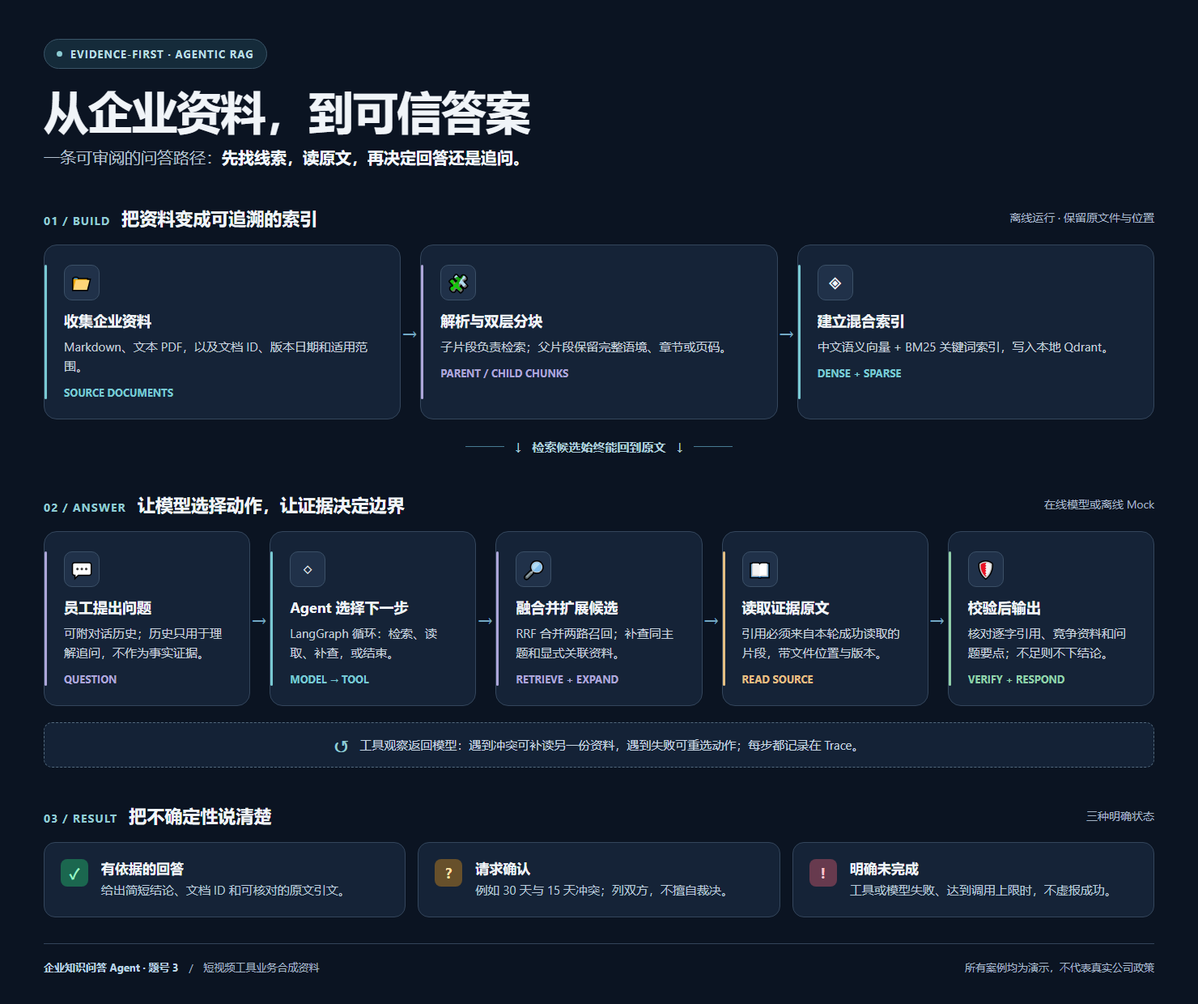
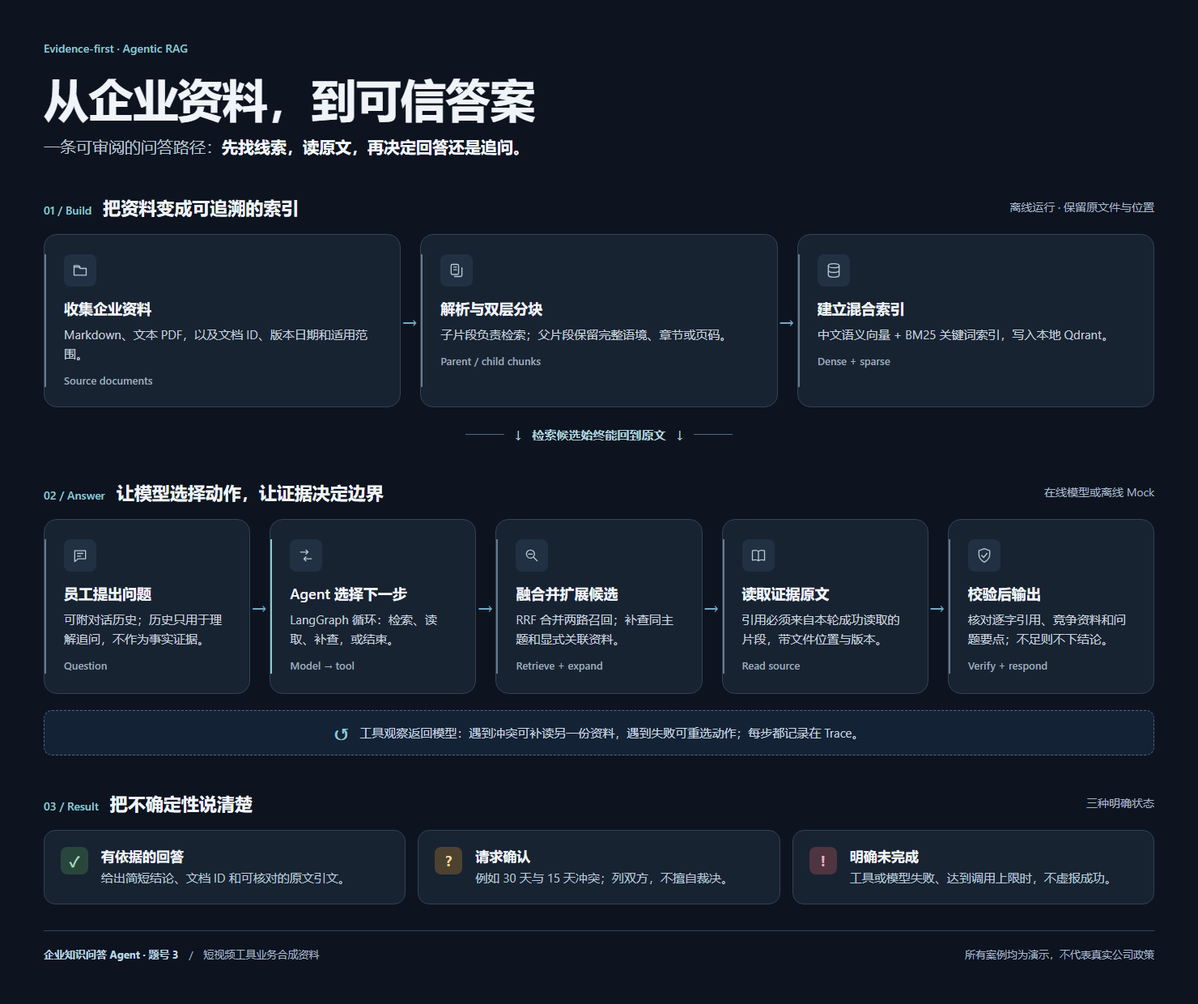
Polish architecture diagram and expand README

diff --git a/docs/architecture.html b/docs/architecture.html
@@ -6,43 +6,43 @@
   <meta name="color-scheme" content="dark">
   <title>有证据的企业知识问答 Agent · 工作流程</title>
   <style>
-    :root { color-scheme: dark; --bg:#0b1422; --panel:#152337; --line:#34465c; --text:#f0f4f8; --muted:#b3c0ce; --cyan:#79c9d3; --violet:#ada6d9; --amber:#e4bf83; --green:#91d0aa; --red:#da9ca5; }
+    :root { color-scheme: dark; --bg:#0d1420; --panel:#182332; --line:#344154; --text:#f0f4f8; --muted:#b8c3cf; --accent:#8fc8d2; }
     * { box-sizing:border-box; }
     body { margin:0; min-height:100vh; color:var(--text); font-family:Inter,"Segoe UI","Microsoft YaHei",system-ui,sans-serif; background:var(--bg); }
     main { max-width:1480px; margin:auto; padding:48px 54px 42px; }
-    .eyebrow { display:inline-flex; align-items:center; gap:10px; border:1px solid #3b5568; border-radius:100px; padding:9px 15px; color:#b9dce2; background:#152b3a; font-size:13px; font-weight:650; letter-spacing:.08em; }
-    .spark { width:7px; height:7px; border-radius:50%; background:#8bcbd2; }
-    h1 { margin:19px 0 10px; font-size:clamp(40px,3.8vw,58px); line-height:1.13; letter-spacing:-.03em; }
+    .eyebrow { display:inline-flex; align-items:center; gap:10px; color:var(--accent); font-size:14px; font-weight:500; }
+    h1 { margin:20px 0 12px; font-size:clamp(40px,3.8vw,58px); line-height:1.13; letter-spacing:-.02em; font-weight:600; }
     .lead { margin:0; color:var(--muted); font-size:20px; line-height:1.6; }
-    .lead strong { color:#f3f8ff; font-weight:700; }
+    .lead strong { color:#f3f8ff; font-weight:600; }
     .section-head { display:flex; align-items:center; justify-content:space-between; gap:16px; margin:44px 0 18px; }
-    .section-head h2 { margin:0; font-size:22px; letter-spacing:0; }
-    .section-head h2 span { color:#91cbd3; font-size:14px; letter-spacing:.08em; margin-right:14px; }
+    .section-head h2 { margin:0; font-size:22px; letter-spacing:0; font-weight:600; }
+    .section-head h2 span { color:var(--accent); font-size:14px; letter-spacing:0; margin-right:14px; font-weight:500; }
     .section-head p { margin:0; color:#a5b5c7; font-size:14px; }
     .flow { display:grid; gap:24px; align-items:stretch; }
     .build { grid-template-columns:repeat(3,minmax(0,1fr)); }
     .ask { grid-template-columns:repeat(5,minmax(0,1fr)); }
     .card { position:relative; min-height:174px; padding:24px; border:1px solid var(--line); border-radius:16px; background:var(--panel); overflow:visible; }
-    .card::before { content:""; position:absolute; left:0; top:24px; bottom:24px; width:3px; border-radius:3px; background:var(--accent); }
+    .card::before { content:""; position:absolute; left:0; top:24px; bottom:24px; width:2px; background:#667b8e; }
     .card:not(:last-child)::after { content:"→"; position:absolute; right:-22px; top:50%; transform:translateY(-50%); color:#74a9c4; font-size:24px; font-weight:300; z-index:2; }
-    .cyan { --accent:var(--cyan); } .violet { --accent:var(--violet); } .amber { --accent:var(--amber); } .green { --accent:var(--green); }
-    .icon { display:grid; place-items:center; width:44px; height:44px; border-radius:10px; margin-bottom:14px; font-size:22px; background:#203149; border:1px solid #3b5067; }
-    .card h3 { margin:0 0 8px; font-size:18px; line-height:1.3; }
+    .ask .card:nth-child(2)::before { background:var(--accent); }
+    .icon { display:grid; place-items:center; width:40px; height:40px; border-radius:8px; margin-bottom:16px; color:#b8c8d7; background:#223043; }
+    .icon svg { width:20px; height:20px; fill:none; stroke:currentColor; stroke-width:1.6; stroke-linecap:round; stroke-linejoin:round; }
+    .card h3 { margin:0 0 8px; font-size:18px; line-height:1.3; font-weight:600; }
     .card p { margin:0; color:#c5d0dc; font-size:15px; line-height:1.6; }
-    .card small { display:block; margin-top:12px; color:var(--accent); font-size:13px; font-weight:650; letter-spacing:0; }
+    .card small { display:block; margin-top:12px; color:#9fabb9; font-size:13px; font-weight:500; letter-spacing:0; }
     .bridge { margin:22px auto 0; width:max-content; max-width:100%; display:flex; align-items:center; gap:13px; color:#afd0dc; font-size:15px; font-weight:600; }
-    .bridge::before,.bridge::after { content:""; width:48px; height:1px; background:#477b93; }
+    .bridge::before,.bridge::after { content:""; width:48px; height:1px; background:#57697b; }
     .bridge b { font-size:18px; font-weight:400; }
     .ask .card { min-height:216px; }
     .ask .card h3 { font-size:18px; }
     .loop { display:flex; align-items:center; justify-content:center; gap:14px; margin:20px 0 0; padding:16px 20px; border:1px dashed #52697d; border-radius:10px; color:#c7d5e2; background:#142236; font-size:15px; }
-    .loop b { color:#91cbd3; font-size:22px; line-height:1; }
+    .loop b { color:var(--accent); font-size:22px; line-height:1; }
     .outcomes { display:grid; grid-template-columns:repeat(3,minmax(0,1fr)); gap:15px; }
     .outcome { display:flex; align-items:flex-start; gap:16px; padding:20px; border:1px solid var(--line); border-radius:14px; background:var(--panel); }
     .outcome .mark { display:grid; place-items:center; width:34px; height:34px; flex:none; border-radius:8px; font-size:18px; font-weight:700; }
-    .outcome h3 { margin:0 0 5px; font-size:17px; }
+    .outcome h3 { margin:0 0 5px; font-size:17px; font-weight:600; }
     .outcome p { margin:0; color:#b9c8d7; font-size:15px; line-height:1.55; }
-    .yes .mark { background:#1b674f; color:#9cf1c4; } .maybe .mark { background:#67502b; color:#ffe1a2; } .stop .mark { background:#673a4e; color:#ffc4ce; }
+    .yes .mark { background:#29463d; color:#a8d9bf; } .maybe .mark { background:#4d4230; color:#efd29b; } .stop .mark { background:#4e3540; color:#e4b1bd; }
     footer { display:flex; align-items:center; justify-content:space-between; gap:12px; margin-top:32px; padding-top:20px; border-top:1px solid #33445a; color:#a6b7c9; font-size:13px; }
     footer strong { color:#bbd3e6; }
     @media(max-width:1000px) { main { padding:34px 24px; } .ask { grid-template-columns:repeat(3,minmax(0,1fr)); } .ask .card:nth-child(3)::after { display:none; } }
@@ -51,29 +51,29 @@
 </head>
 <body>
   <main>
-    <div class="eyebrow"><i class="spark"></i> EVIDENCE-FIRST · AGENTIC RAG</div>
+    <div class="eyebrow">Evidence-first · Agentic RAG</div>
     <h1>从企业资料，到可信答案</h1>
     <p class="lead">一条可审阅的问答路径：<strong>先找线索，读原文，再决定回答还是追问。</strong></p>
 
-    <div class="section-head"><h2><span>01 / BUILD</span>把资料变成可追溯的索引</h2><p>离线运行 · 保留原文件与位置</p></div>
+    <div class="section-head"><h2><span>01 / Build</span>把资料变成可追溯的索引</h2><p>离线运行 · 保留原文件与位置</p></div>
     <div class="flow build">
-      <article class="card cyan"><div class="icon">📁</div><h3>收集企业资料</h3><p>Markdown、文本 PDF，以及文档 ID、版本日期和适用范围。</p><small>SOURCE DOCUMENTS</small></article>
-      <article class="card violet"><div class="icon">🧩</div><h3>解析与双层分块</h3><p>子片段负责检索；父片段保留完整语境、章节或页码。</p><small>PARENT / CHILD CHUNKS</small></article>
-      <article class="card cyan"><div class="icon">◈</div><h3>建立混合索引</h3><p>中文语义向量 + BM25 关键词索引，写入本地 Qdrant。</p><small>DENSE + SPARSE</small></article>
+      <article class="card"><div class="icon"><svg viewBox="0 0 24 24" aria-hidden="true"><path d="M3 7h7l2 2h9v10H3z"/><path d="M3 7V5h7l2 2"/></svg></div><h3>收集企业资料</h3><p>Markdown、文本 PDF，以及文档 ID、版本日期和适用范围。</p><small>Source documents</small></article>
+      <article class="card"><div class="icon"><svg viewBox="0 0 24 24" aria-hidden="true"><rect x="4" y="3" width="11" height="15" rx="2"/><path d="M8 7h4M8 11h4M9 21h9a2 2 0 0 0 2-2V8"/></svg></div><h3>解析与双层分块</h3><p>子片段负责检索；父片段保留完整语境、章节或页码。</p><small>Parent / child chunks</small></article>
+      <article class="card"><div class="icon"><svg viewBox="0 0 24 24" aria-hidden="true"><ellipse cx="12" cy="5" rx="8" ry="3"/><path d="M4 5v7c0 1.7 3.6 3 8 3s8-1.3 8-3V5M4 12v7c0 1.7 3.6 3 8 3s8-1.3 8-3v-7"/></svg></div><h3>建立混合索引</h3><p>中文语义向量 + BM25 关键词索引，写入本地 Qdrant。</p><small>Dense + sparse</small></article>
     </div>
 
     <div class="bridge"><b>↓</b> 检索候选始终能回到原文 <b>↓</b></div>
-    <div class="section-head"><h2><span>02 / ANSWER</span>让模型选择动作，让证据决定边界</h2><p>在线模型或离线 Mock</p></div>
+    <div class="section-head"><h2><span>02 / Answer</span>让模型选择动作，让证据决定边界</h2><p>在线模型或离线 Mock</p></div>
     <div class="flow ask">
-      <article class="card violet"><div class="icon">💬</div><h3>员工提出问题</h3><p>可附对话历史；历史只用于理解追问，不作为事实证据。</p><small>QUESTION</small></article>
-      <article class="card cyan"><div class="icon">◇</div><h3>Agent 选择下一步</h3><p>LangGraph 循环：检索、读取、补查，或结束。</p><small>MODEL → TOOL</small></article>
-      <article class="card violet"><div class="icon">🔎</div><h3>融合并扩展候选</h3><p>RRF 合并两路召回；补查同主题和显式关联资料。</p><small>RETRIEVE + EXPAND</small></article>
-      <article class="card amber"><div class="icon">📖</div><h3>读取证据原文</h3><p>引用必须来自本轮成功读取的片段，带文件位置与版本。</p><small>READ SOURCE</small></article>
-      <article class="card green"><div class="icon">🛡</div><h3>校验后输出</h3><p>核对逐字引用、竞争资料和问题要点；不足则不下结论。</p><small>VERIFY + RESPOND</small></article>
+      <article class="card"><div class="icon"><svg viewBox="0 0 24 24" aria-hidden="true"><path d="M4 5h16v12H9l-5 4z"/><path d="M8 9h8M8 13h5"/></svg></div><h3>员工提出问题</h3><p>可附对话历史；历史只用于理解追问，不作为事实证据。</p><small>Question</small></article>
+      <article class="card"><div class="icon"><svg viewBox="0 0 24 24" aria-hidden="true"><path d="M4 7h11M12 4l3 3-3 3M20 17H9M12 14l-3 3 3 3"/></svg></div><h3>Agent 选择下一步</h3><p>LangGraph 循环：检索、读取、补查，或结束。</p><small>Model → tool</small></article>
+      <article class="card"><div class="icon"><svg viewBox="0 0 24 24" aria-hidden="true"><circle cx="10" cy="10" r="6"/><path d="m15 15 5 5M7 10h6"/></svg></div><h3>融合并扩展候选</h3><p>RRF 合并两路召回；补查同主题和显式关联资料。</p><small>Retrieve + expand</small></article>
+      <article class="card"><div class="icon"><svg viewBox="0 0 24 24" aria-hidden="true"><path d="M12 6c-2-2-5-2-9-1v14c4-1 7-1 9 1 2-2 5-2 9-1V5c-4-1-7-1-9 1zM12 6v14"/></svg></div><h3>读取证据原文</h3><p>引用必须来自本轮成功读取的片段，带文件位置与版本。</p><small>Read source</small></article>
+      <article class="card"><div class="icon"><svg viewBox="0 0 24 24" aria-hidden="true"><path d="m12 2 8 3v6c0 5-3 8-8 11-5-3-8-6-8-11V5z"/><path d="m8 12 3 3 5-6"/></svg></div><h3>校验后输出</h3><p>核对逐字引用、竞争资料和问题要点；不足则不下结论。</p><small>Verify + respond</small></article>
     </div>
     <div class="loop"><b>↺</b><span>工具观察返回模型：遇到冲突可补读另一份资料，遇到失败可重选动作；每步都记录在 Trace。</span></div>
 
-    <div class="section-head"><h2><span>03 / RESULT</span>把不确定性说清楚</h2><p>三种明确状态</p></div>
+    <div class="section-head"><h2><span>03 / Result</span>把不确定性说清楚</h2><p>三种明确状态</p></div>
     <div class="outcomes">
       <article class="outcome yes"><span class="mark">✓</span><div><h3>有依据的回答</h3><p>给出简短结论、文档 ID 和可核对的原文引文。</p></div></article>
       <article class="outcome maybe"><span class="mark">?</span><div><h3>请求确认</h3><p>例如 30 天与 15 天冲突；列双方，不擅自裁决。</p></div></article>

diff --git a/README.md b/README.md
@@ -2,9 +2,11 @@
 
 > 小影科技校招笔试 · 题号 3 · CLI 项目
 
-员工问“云端草稿能保留多久？”时，系统会检索并读取相关制度。若两份资料分别写着 30 天和 15 天，且没有说明适用范围或优先级，结果就列出双方原文并请求确认，而不是替用户选一个期限。
+员工问“删除的云端草稿在回收站保留多久？”时，系统会先检索，再读取相关制度原文。若两份资料分别写着 30 天和 15 天，且没有说明适用范围或优先级，结果就列出双方引文并请求确认，而不是替用户选一个期限。
 
 本仓库是可运行的 CLI 项目，提供 DeepSeek 在线模型与离线 Mock 两条入口。所有制度、产品能力和案例均为**合成资料**，不代表真实小影科技的政策或产品承诺。
+
+**评审入口：** [需求与验收点](docs/01-requirements.md) · [设计与取舍](docs/02-solution.md) · [测试与限制](docs/03-evaluation.md) · [AI 使用记录](docs/04-ai-usage.md) · [复盘](docs/05-retrospective.md)。想先看实际行为，可直接打开下方的[冲突输入](examples/video_tool_kb/inputs/retention_conflict.json)和[真实模型 Trace](examples/video_tool_kb/retention_conflict.json)。
 
 ## 工作流程
 
@@ -21,7 +23,22 @@
 | **可审阅 Trace** | 记录动作、工具参数、返回摘要、后续动作和简要依据，不暴露模型内部思维。 |
 | **故障边界** | 工具错误、调用超限、无效模型输出和接口故障返回明确状态；无效 JSON 最多尝试一次格式修复。 |
 
-## 运行记录
+### 一次问答实际怎样运行
+
+1. **建库：**从 Markdown 或可提取文字的 PDF 读取正文和侧车元数据，保留文档 ID、版本日期、适用范围、章节或页码。长文档先按原文语境切父片段，再为检索切子片段；本地 Qdrant 同时保存中文语义向量和 BM25 稀疏向量。
+2. **找线索：**模型决定调用 `search_documents` 并给出查询词。工具分别检索两种向量，以 RRF 合并排序，将命中的子片段映射回父片段；再补入同主题资料及原文显式提及的文档。这个补查能降低只找到冲突一方的风险，但依赖资料标注。
+3. **读原文：**模型根据候选选择 `read_snippet(doc_id, snippet_id)`。工具结果回到模型，模型可以继续检索、读取另一份资料、请求确认或结束。LangGraph 保留每轮状态；Trace 记录可审阅的动作与观察。
+4. **核对输出：**引用必须是本轮成功读取的连续原文，并附文档 ID、位置、版本和范围。程序还检查同主题竞争资料、问题中的关键实体和引文是否真的覆盖问题。证据不足时返回待确认；执行失败或达到工具上限时返回未完成。
+
+模型负责**选动作**，本地程序负责**守住证据与状态边界**。检索结果只是候选，不能直接当作答案；对话历史只帮助理解“它”“这个规则”等追问，不充当事实来源。
+
+### 冲突怎样处理
+
+本项目的 K13 与 K14 是刻意构造的冲突：前者写回收站保留 **30 天**，后者写 **15 天**。二者都没有给出适用套餐、地区、版本或优先级。检索器会尽量让两份进入候选；模型读取后，输出 `needs_clarification`、双方逐字引文，以及需要确认适用制度的问题。**版本日期较新并不自动覆盖旧文档。** 若资料中只存在一方且引用足以回答，才可给出单一答案。
+
+目前的冲突拦截偏保守：同主题资料文本不同可能触发确认，即使差异未必构成逻辑矛盾。它保护了该题的关键边界，但并非任意企业文档的通用冲突推理器。
+
+## 运行记录与验收点
 
 | 场景 | 观察结果 | 输入与真实模型记录 |
 |---|---|---|
@@ -29,11 +46,22 @@
 | **资料冲突** | K13 写 30 天，K14 写 15 天；不擅自选新版本，要求确认适用制度。 | [输入](examples/video_tool_kb/inputs/retention_conflict.json) · [Trace](examples/video_tool_kb/retention_conflict.json) |
 | **资料不足** | MP4 导出说明不能证明支持 4K HDR；请求补充资料。 | [输入](examples/video_tool_kb/inputs/four_k_unknown.json) · [Trace](examples/video_tool_kb/four_k_unknown.json) |
 
-另外保存了[一次读取失败后补查的 Trace](examples/video_tool_kb/read_failure.json)和[两次无效 JSON 的失败记录](examples/video_tool_kb/subtitle_first_attempt.json)。这些在线记录来自较早版本；最新格式修复与问答相关性拦截已通过离线测试，**2026-11-03 DeepSeek 接口返回 HTTP 503，尚未完成新版本的在线重复成功率验证**。
+题目要求的六种情况都能在仓库核对：
+
+| 验收点 | 核对位置 | 预期边界 |
+|---|---|---|
+| 明确答案 | [字幕案例](examples/video_tool_kb/subtitle.json) | 给出答案与可回查的 K01 引文 |
+| 文档冲突 | [草稿期限案例](examples/video_tool_kb/retention_conflict.json) | 同时列出 K13、K14，请求确认 |
+| 资料外问题 | [4K HDR 案例](examples/video_tool_kb/four_k_unknown.json) | 不把 MP4 导出误说成 4K HDR 支持 |
+| 改写相似问题 | [在线改写案例](examples/online/paraphrase.json) | 换一种问法仍能找到 D03 |
+| 上下文追问 | [在线追问案例](examples/online/followup.json) | 用历史确定所问主题，引用仍来自文档 |
+| 工具失败 | [读取失败案例](examples/video_tool_kb/read_failure.json) | 失败不计为成功；补查后才允许回答 |
+
+另有[达到上限](tests/test_agent.py)、[无效模型输出](examples/video_tool_kb/subtitle_first_attempt.json)、[资料替换后答案改变](examples/online/replaced.json)和[仅保留冲突一方](examples/online/d01_only.json)的验证。在线 Trace 来自较早版本；最新格式修复与问答相关性拦截已通过离线测试，**2026-11-03 DeepSeek 接口返回 HTTP 503，尚未完成新版本的在线重复成功率验证**。
 
 ## 运行项目
 
-环境：Python 3.11+、PowerShell。首次安装：
+环境：Python 3.11+、PowerShell。项目不需要单独运行 Qdrant 服务；索引建在本机目录中。首次安装：
 
 ```powershell
 git clone https://github.com/Moming0215/enterprise-qa-agent.git
@@ -51,6 +79,8 @@ if (-not (Test-Path .env)) { Copy-Item .env.example .env }
 
 预期报告包含 `indexed_files: 44`、`failures: []`。首次向量化会下载模型；索引保存在本地 `data/index/`，不会进入 Git。
 
+建库是离线步骤，**更换或新增资料后需要重新运行**。若报告的 `failures` 非空，请先看具体文件的解析错误；索引器不会把失败文件算作已收录。当前会递归读取来源目录中的 `.md` 和文本型 `.pdf`；扫描件尚需 OCR，DOCX、表格等格式尚未接入。
+
 ### 2. 不用 API，检查流程
 
 ```powershell
@@ -59,6 +89,8 @@ if (-not (Test-Path .env)) { Copy-Item .env.example .env }
 ```
 
 Mock 只证明工具链与边界规则，不能证明真实模型会怎样决策；扩大语料后它会机械读取较多候选，所以示例将工具上限设为 30。当前测试结果为 **50 passed**，见[实际输出](examples/video_tool_kb_v2/test-results.txt)。
+
+要模拟工具故障，可在上述命令加 `--fail-tool read_snippet`（只注入一次）。也可改成 `search_documents`。检查输出里的 `trace`，确认失败步骤没有被记录为成功。
 
 ### 3. 使用真实模型
 
@@ -70,11 +102,49 @@ Mock 只证明工具链与边界规则，不能证明真实模型会怎样决策
 
 CLI 在终端打印结果，同时保存 JSON。主要字段：`status`（`answered`、`needs_clarification`、`incomplete`）、`answer`、`citations`、`gaps`、`clarifying_question`、`error`、`trace`。`incomplete` 的退出码为 2。自定义问题参照[输入格式](examples/video_tool_kb/inputs/subtitle.json)，可加入 `history` 数组；CLI 参数见 `python -m src.cli --help`。
 
+### 4. 用自己的问题与资料复现
+
+在项目根目录新建一个 UTF-8 输入文件，例如 `examples/private/my-question.json`：
+
+```json
+{"question": "删除的云端草稿在回收站保留多久？"}
+```
+
+将在线命令里的 `--input` 换成这个文件即可。追问可传 `history` 数组，每项为含 `role`、`content` 的消息；可参照[追问输入](examples/inputs/followup.json)。
+
+要换资料，创建自己的来源目录，放入 `.md` 或文本型 `.pdf`，并为需要追踪的文件配同名侧车文件，如 `policy.md.meta.json`：
+
+```json
+{"doc_id":"P01","topic":"draft_retention","version_date":"2026-10-01","scope":"云端草稿服务"}
+```
+
+然后用 `src.ingest_cli --source 你的目录 --index 你的索引目录` 建库，再在问答命令中通过 `--index-dir` 指向该索引。`doc_id` 需要唯一；同主题资料建议使用相同 `topic`，便于冲突候选扩展。不要将真实制度、客户资料或密钥提交到此公开仓库。
+
+### 如何读输出
+
+| 字段 | 含义 |
+|---|---|
+| `answered` | 引文已通过校验，当前资料支持回答；仍应核对业务适用范围 |
+| `needs_clarification` | 有冲突、资料不足或问题缺少关键条件；看 `gaps` 与 `clarifying_question` |
+| `incomplete` | 工具、模型或执行上限导致任务未完成；看 `error`，CLI 退出码为 2 |
+| `citations` | 文档 ID、片段 ID、逐字引文及来源位置等元数据 |
+| `trace` | 每一步的动作、参数、工具返回摘要和下一步依据；不包含模型内部思维 |
+
 ## 资料与验证
 
 [短视频工具模拟知识库](data/video_tool_kb/README.md)有 **44 份 Markdown、约 9,405 个汉字**，覆盖产品、授权、发布、客服、数据与安全流程；索引生成 104 个父片段和 104 个子片段。K13/K14 是故意保留的冲突资料。解析器也支持**可提取文字的 PDF**，有相应[测试](tests/test_hybrid_knowledge.py)。原始 JSON 小语料仍可通过 `--corpus` 使用，作为简化对照。
 
-[70 条合成标注题](data/video_tool_kb/eval_all.json)包括 55 条有答案、15 条无答案、10 条跨文档和 3 条冲突题。[逐题检索结果](examples/video_tool_kb/retrieval_metrics_extended.json)显示 Raw Recall@3 为 **0.9515**、交付候选 Recall@3 为 **0.9636**、冲突双方召回 **3/3**；跨文档题仅 **6/10** 完整召回。无答案题有 14/15 仍返回相关候选，必须由回答阶段判断证据是否足够。这是同源合成集，**不能外推为真实企业准确率**。
+[70 条合成标注题](data/video_tool_kb/eval_all.json)包括 55 条有答案、15 条无答案、10 条跨文档和 3 条冲突题。[逐题检索结果](examples/video_tool_kb/retrieval_metrics_extended.json)如下：
+
+| 指标 | 实测 | 怎样理解 |
+|---|---:|---|
+| Raw Recall@3 | **0.9515** | 混合检索排序的前三个候选覆盖标注依据的程度 |
+| Delivered Recall@3 | **0.9636** | 加入同主题与显式关联资料后的候选覆盖程度 |
+| 冲突双方召回 | **3/3** | 本组标注的冲突题均找到了两边资料 |
+| 跨文档完整召回 | **6/10** | 仍有 4 题没一次找全所需文档 |
+| 无答案题仍返回候选 | **14/15** | 有候选不等于有答案，必须继续核对证据 |
+
+这是一套由资料编写者设计的同源合成题，**不能外推为真实企业准确率**。上表评估的是检索，不是端到端回答正确率；当前没有足够的独立真实提问和最新在线重复运行来给出后者。
 
 复现检索评估：
 
@@ -82,7 +152,7 @@ CLI 在终端打印结果，同时保存 JSON。主要字段：`status`（`answe
 .\.venv\Scripts\python.exe -m src.evaluate_retrieval --dataset data/video_tool_kb/eval_all.json --index-dir data/index/video_tool_kb --output examples/private/retrieval-check.json
 ```
 
-输出中的 `hybrid` 对应本知识库；`legacy` 使用另一套 JSON 小语料，不应直接比较。当前没有扫描 PDF OCR、DOCX/表格解析、文档权限控制、增量索引或通用语义蕴含证明；同主题冲突扩展依赖元数据。详见[评估记录](docs/03-evaluation.md)与[企业文档扩展设计](docs/06-enterprise-rag-extension.md)。
+输出中的 `hybrid` 对应本知识库；`legacy` 使用另一套 JSON 小语料，不应直接比较。当前没有扫描 PDF OCR、DOCX/表格解析、文档权限控制、增量索引或通用语义蕴含证明；同主题冲突扩展依赖元数据。新输出校验针对已发现的反例增加了门槛，但仍可能漏过复杂的语义误答。详见[评估记录](docs/03-evaluation.md)与[企业文档扩展设计](docs/06-enterprise-rag-extension.md)。
 
 ## 代码导览
 
@@ -94,6 +164,7 @@ CLI 在终端打印结果，同时保存 JSON。主要字段：`status`（`answe
 | 引用、冲突与输出校验 | [src/validation.py](src/validation.py) · [src/output_format.py](src/output_format.py) |
 | 测试、评估与真实记录 | [tests/](tests/) · [docs/03-evaluation.md](docs/03-evaluation.md) · [examples/](examples/) |
 | AI 辅助范围与个人贡献 | [docs/04-ai-usage.md](docs/04-ai-usage.md) |
+| 后续需要补齐的企业能力 | [docs/06-enterprise-rag-extension.md](docs/06-enterprise-rag-extension.md) |
 
 项目使用 LangGraph 1.2.19 的 `StateGraph`、消息 reducer 和条件边承载工具循环；依赖版本见 [pyproject.toml](pyproject.toml) 与 [requirements.lock](requirements.lock)。设计借鉴 [LangChain ReAct 模板](https://github.com/langchain-ai/react-agent)的交互模式，以及 MIT 许可的 [agentic-rag-for-dummies](https://github.com/GiovanniPasq/agentic-rag-for-dummies) 的父子分块与混合检索思路；业务工具、引用校验和测试为本项目实现。
 

diff --git a/docs/04-ai-usage.md b/docs/04-ai-usage.md
@@ -12,4 +12,4 @@
 
 仓库首页的 HTML 流程示意图、由 Chrome 渲染的 PNG 预览及 README 版式和文案，也由 Codex 辅助制作；考生提交前应自行查看并按实际贡献说明。
 
-流程图视觉审查参考了 [Unslop by Damir Sokolovsky](https://github.com/heydamir/unslop) 的公开 skill（CC BY 4.0）。根据用户反馈，最终保留原有深色三阶段结构、内容与图标，去除渐变和发光效果，并放大文字；未复制该项目的示例界面或代码。
+流程图视觉审查参考了 [Unslop by Damir Sokolovsky](https://github.com/heydamir/unslop) 的公开 skill（CC BY 4.0）。根据用户反馈，保留原有深色三阶段结构与内容，去除渐变和发光效果、放大文字；后续将表情图标统一为线条图标，收敛装饰色与大写标签。README 由 Codex 补充了真实运行路径、冲突处理、测试入口和已知限制，用户仍需核对业务描述与个人贡献。未复制该项目的示例界面或代码。
